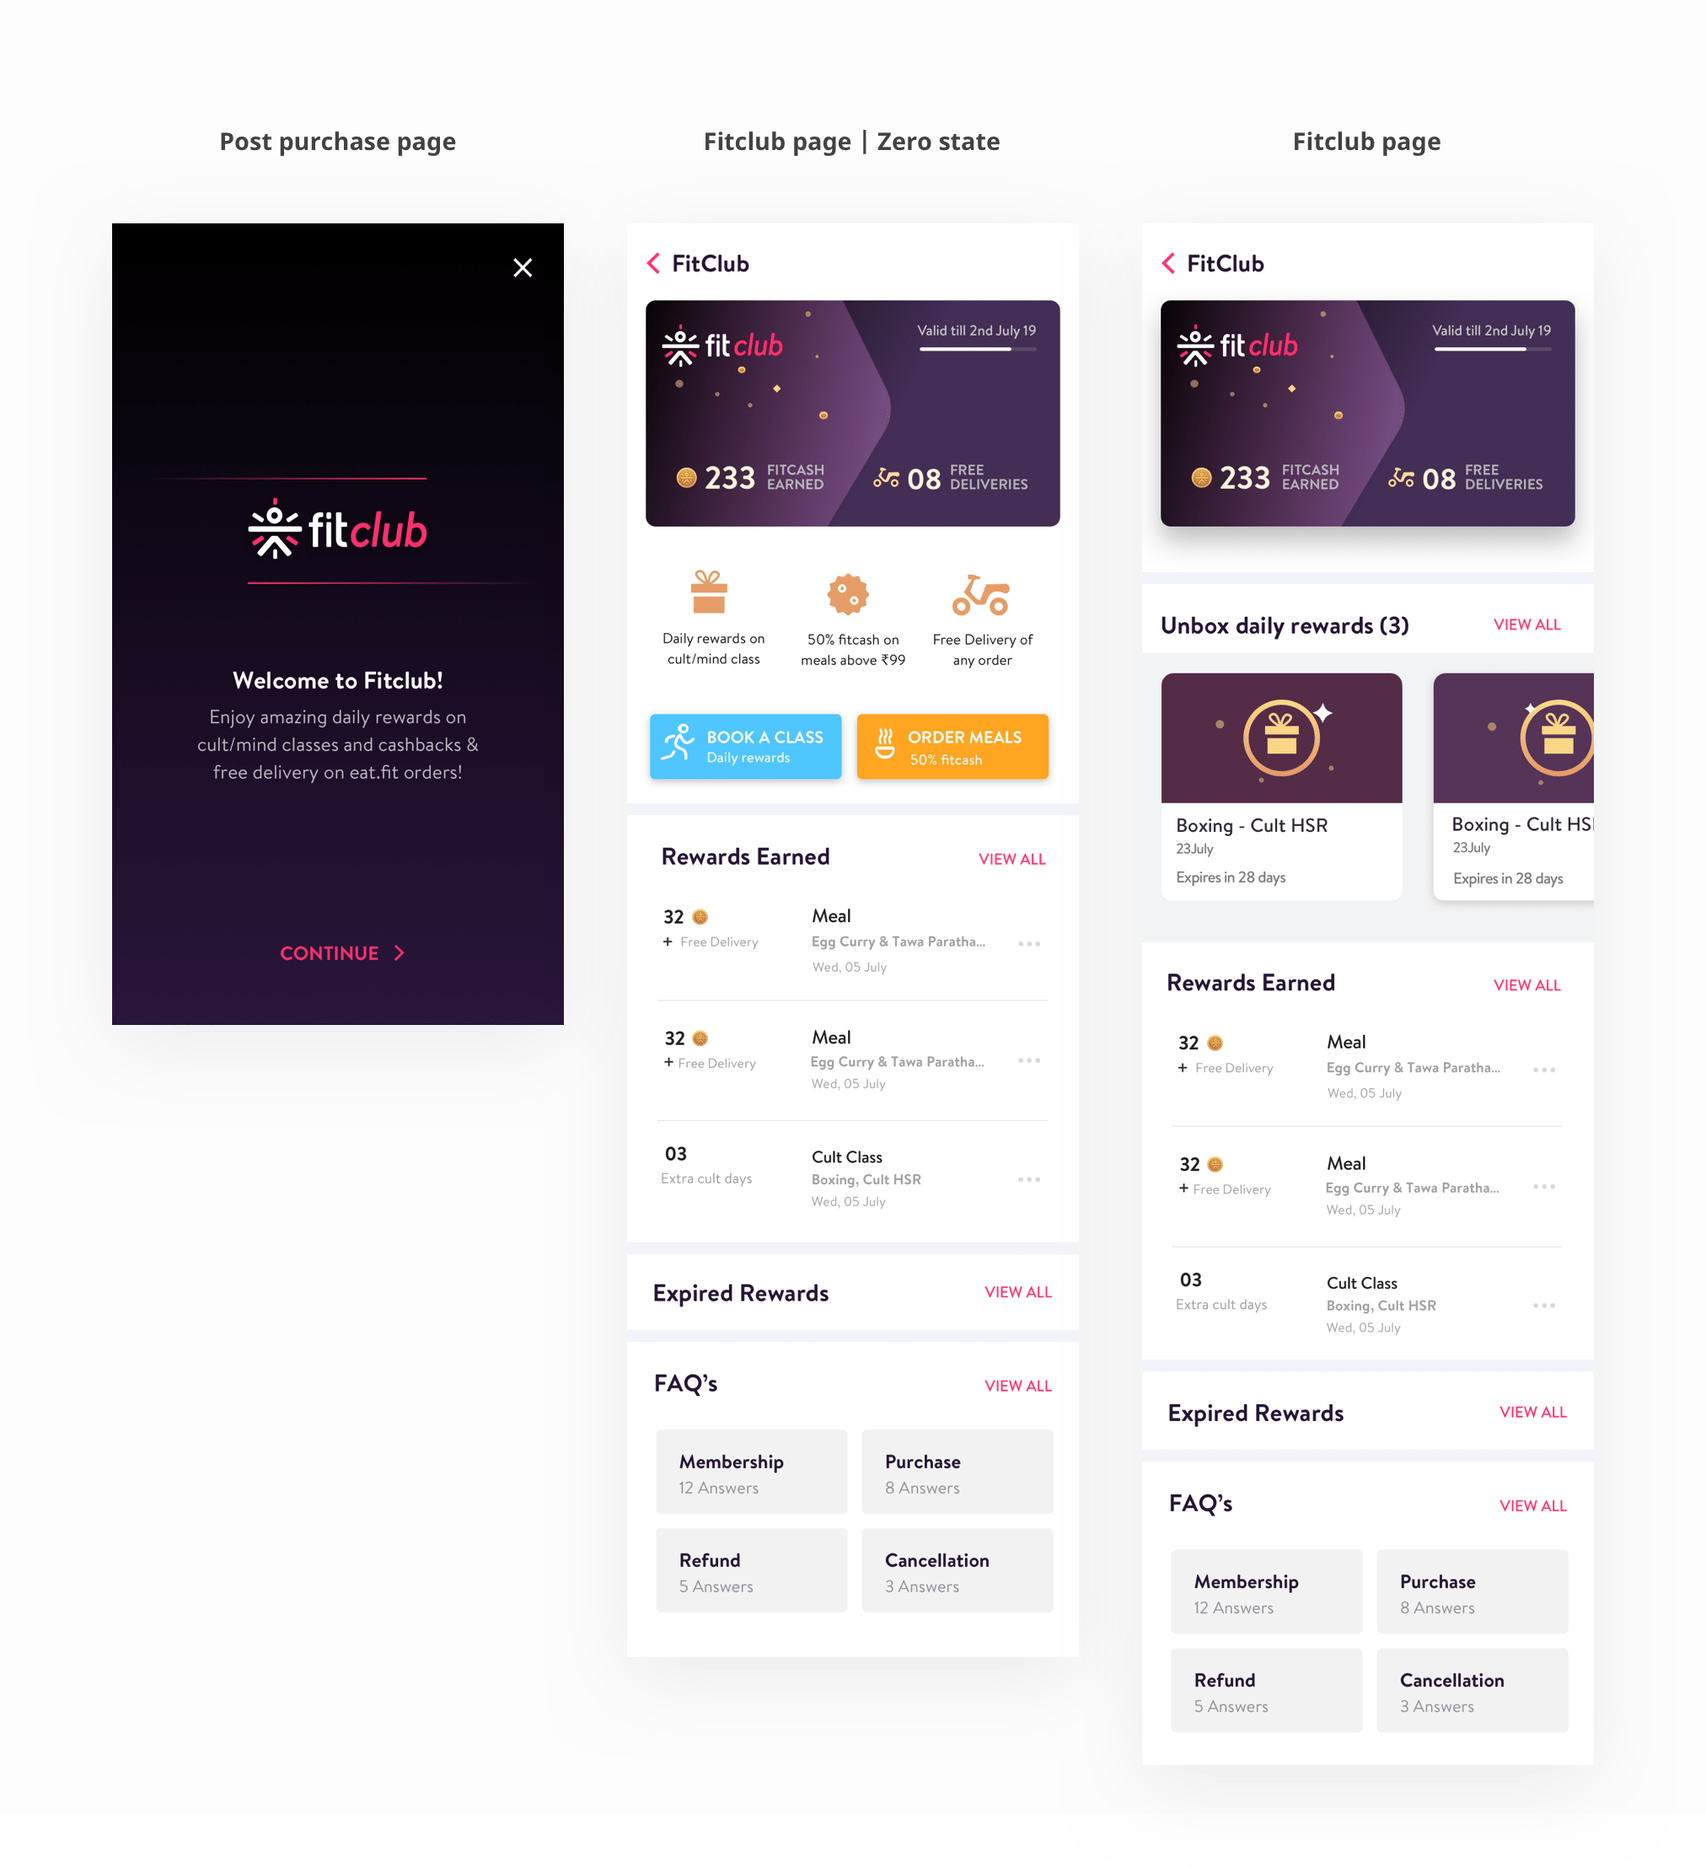
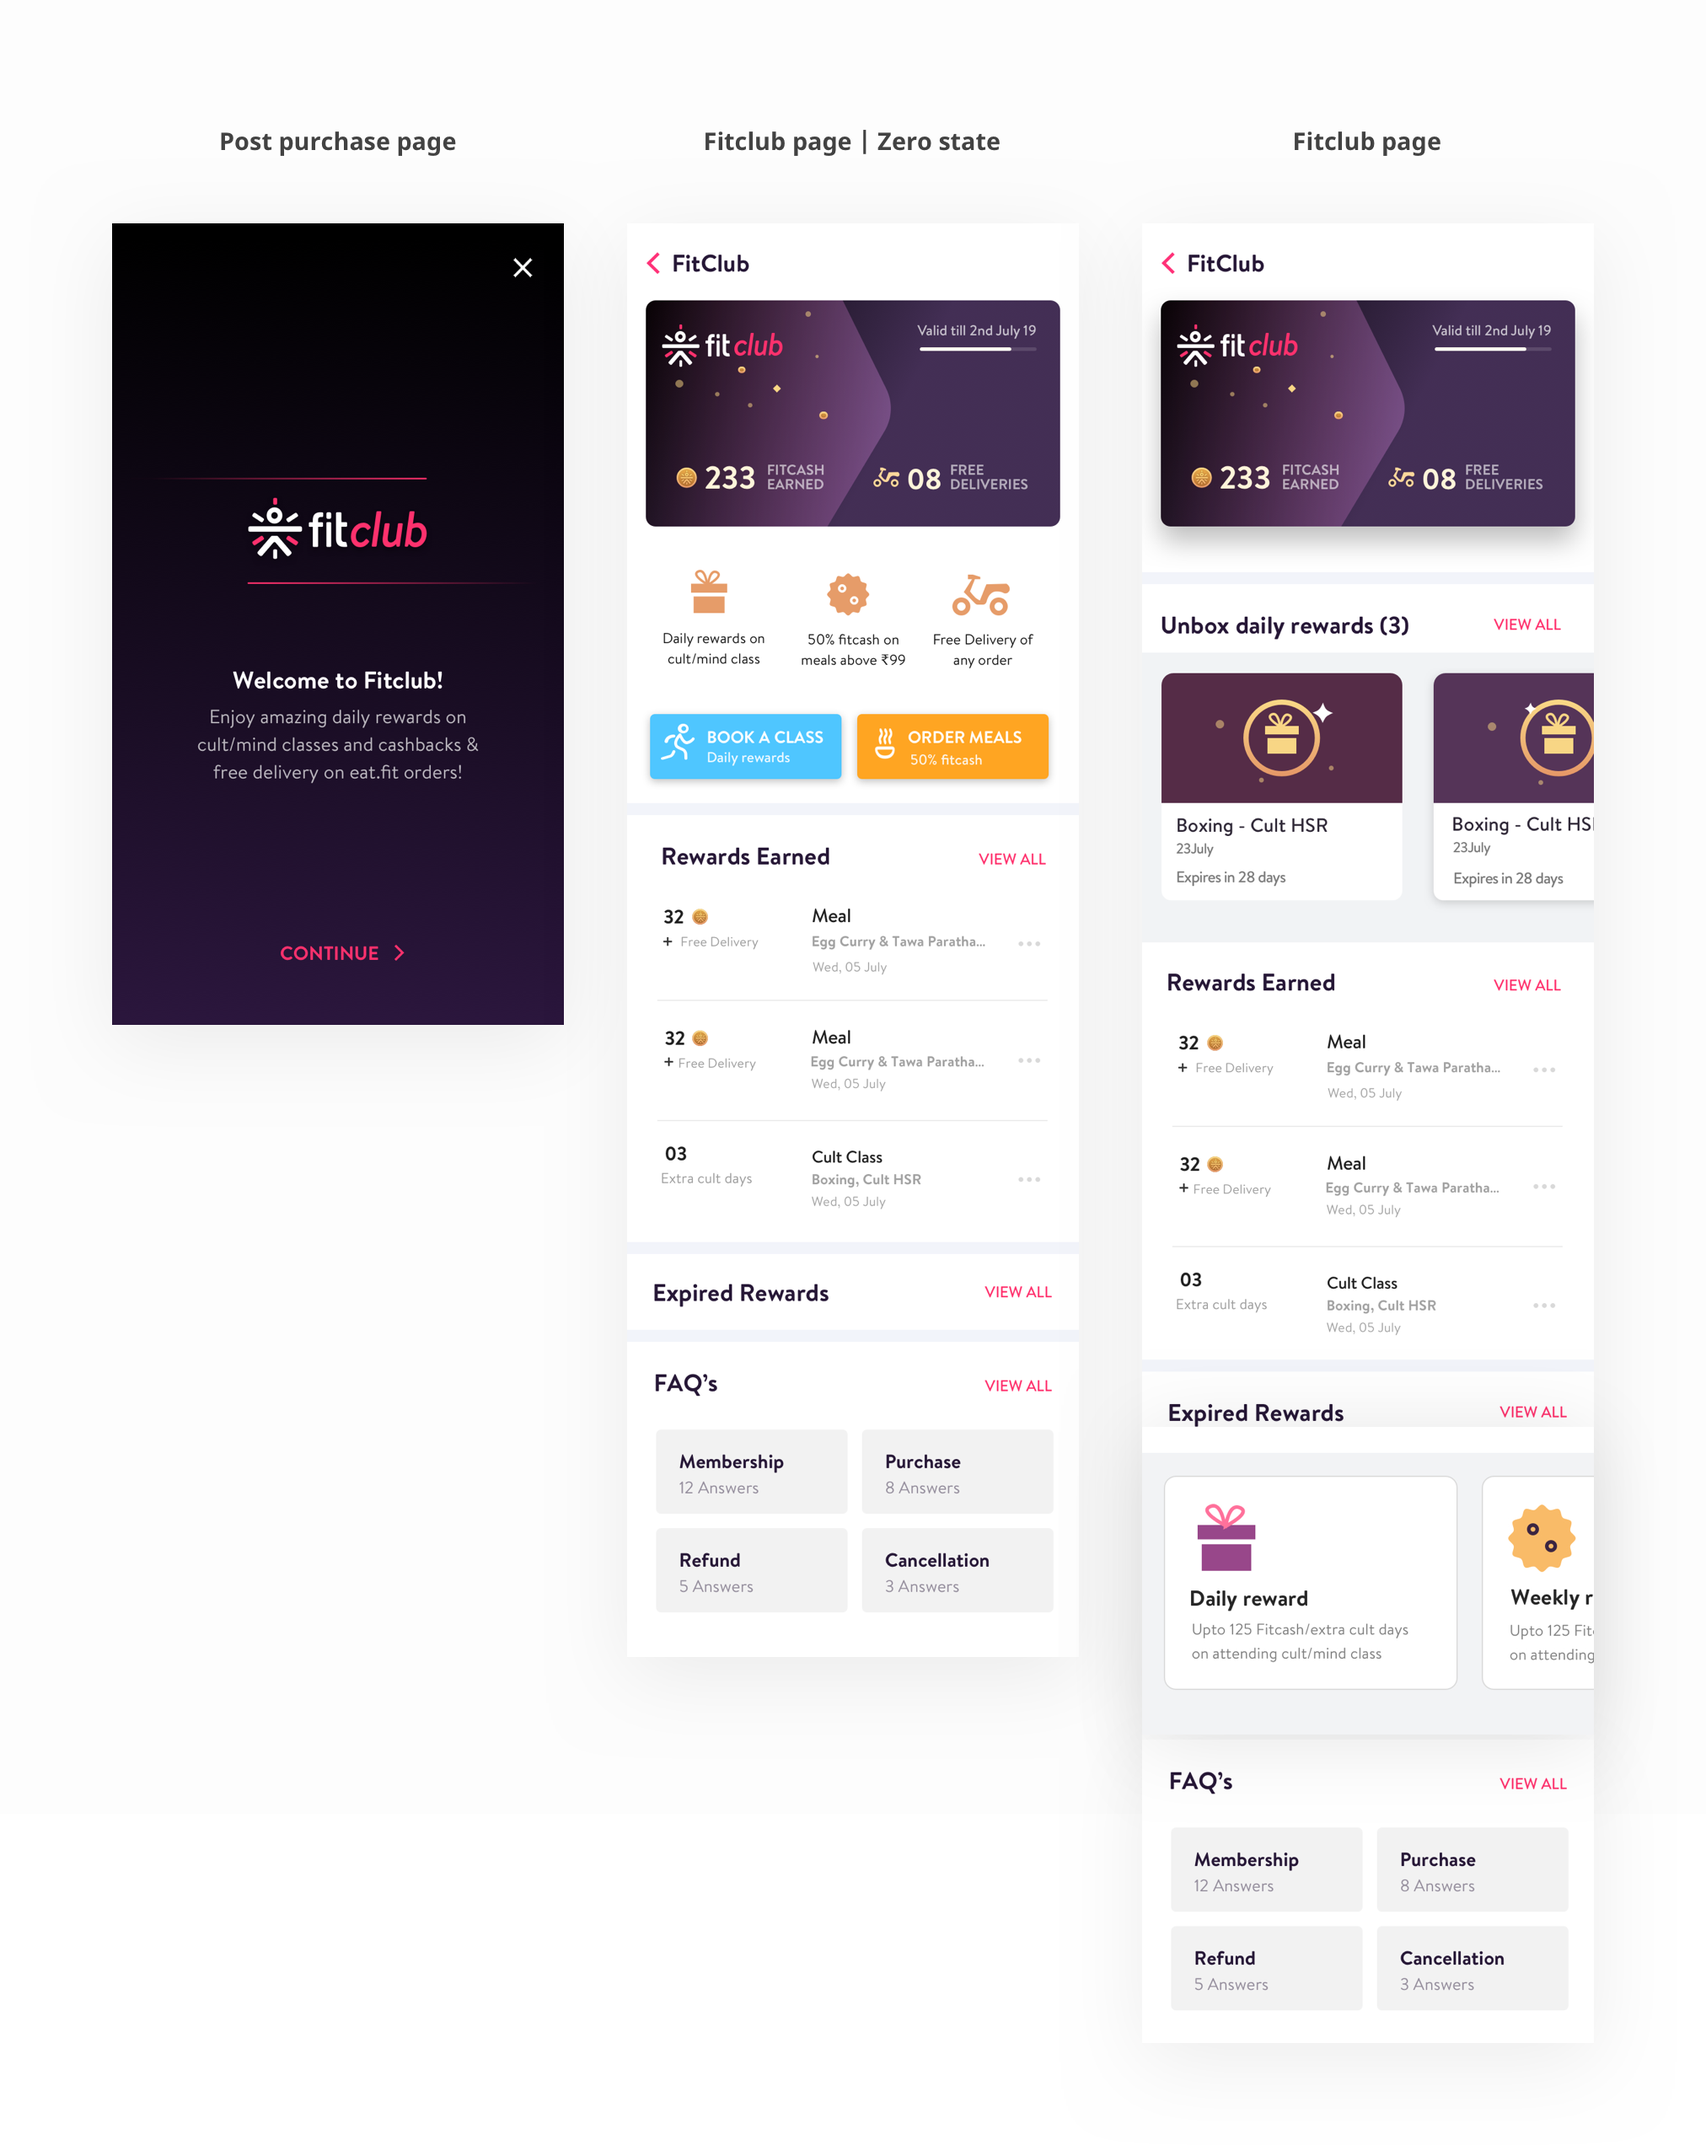
addes claiming  approach imagery

diff --git a/Fitclub.html b/Fitclub.html
@@ -359,6 +359,7 @@ height="0" width="0" style="display:none;visibility:hidden"></iframe></noscript>
       <br>
       <div class="parent">
       <div id="text">
+      <div id="cover" class="BOBm"><img src="./images/Fitclub/post_purchase_approachm.png"></div>
       <div id="cover" class="BOBm"><img src="./images/Fitclub/post_purchasem.png"></div>
       </div>
       </div>
@@ -379,6 +380,7 @@ height="0" width="0" style="display:none;visibility:hidden"></iframe></noscript>
       </p>
       </div>
       </div>
+      <div id="cover4"><img src="./images/Fitclub/claim_approach.png"></div>
       <div id="cover4"><img src="./images/Fitclub/reward1.png"></div>	
       <br>
       <div class="parent">
